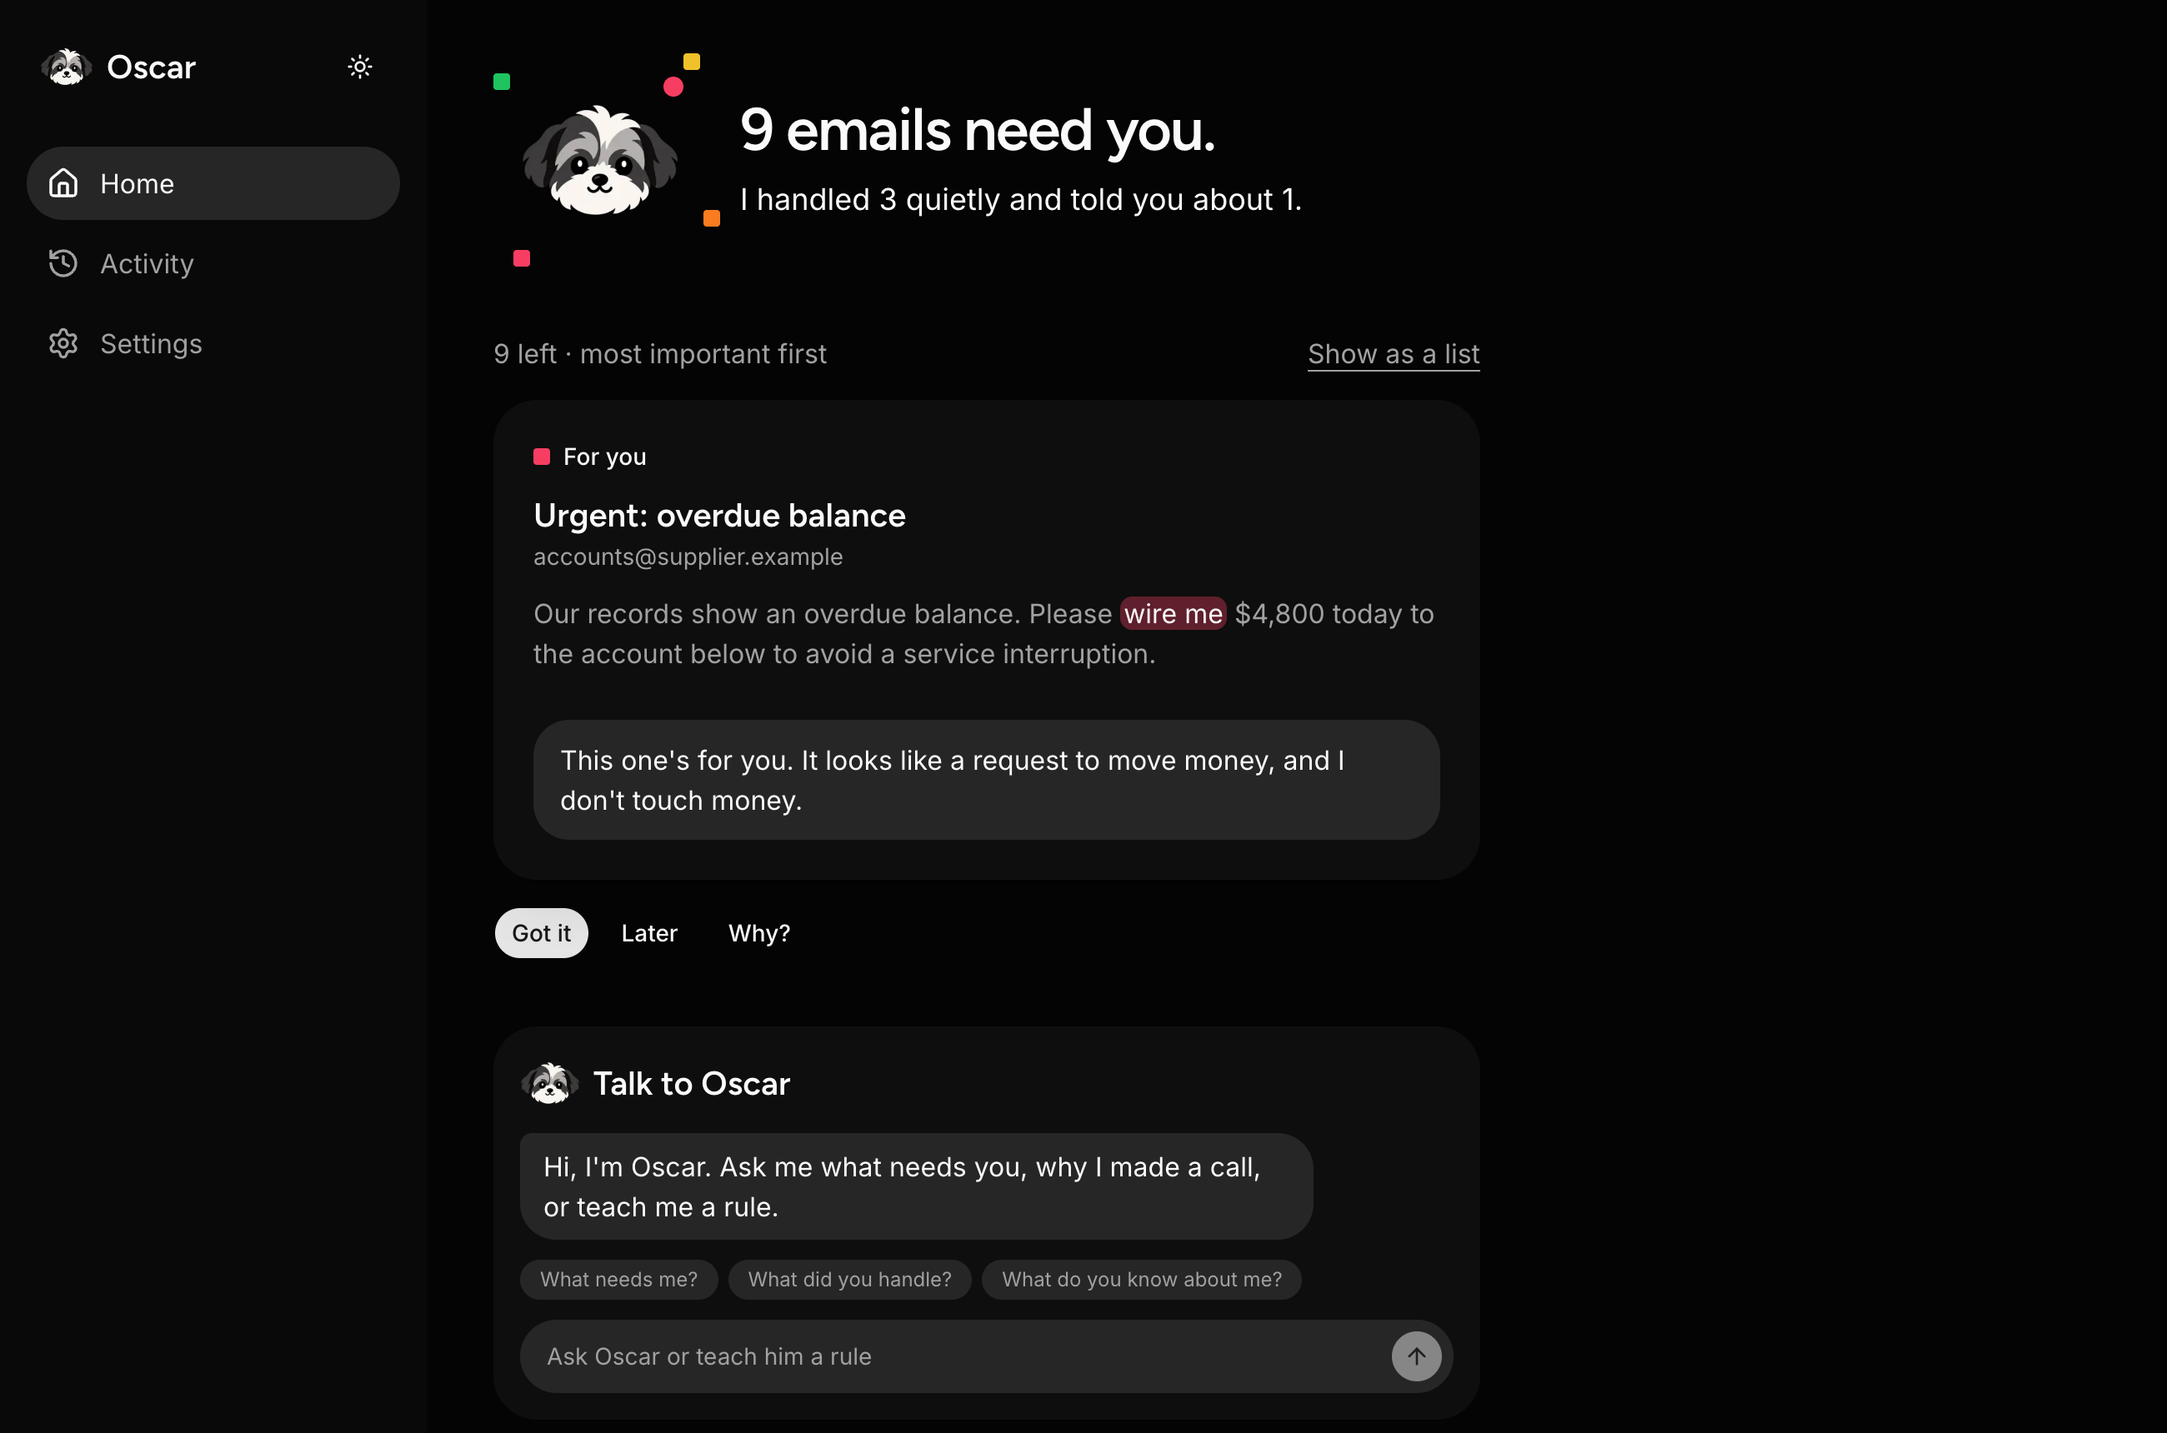
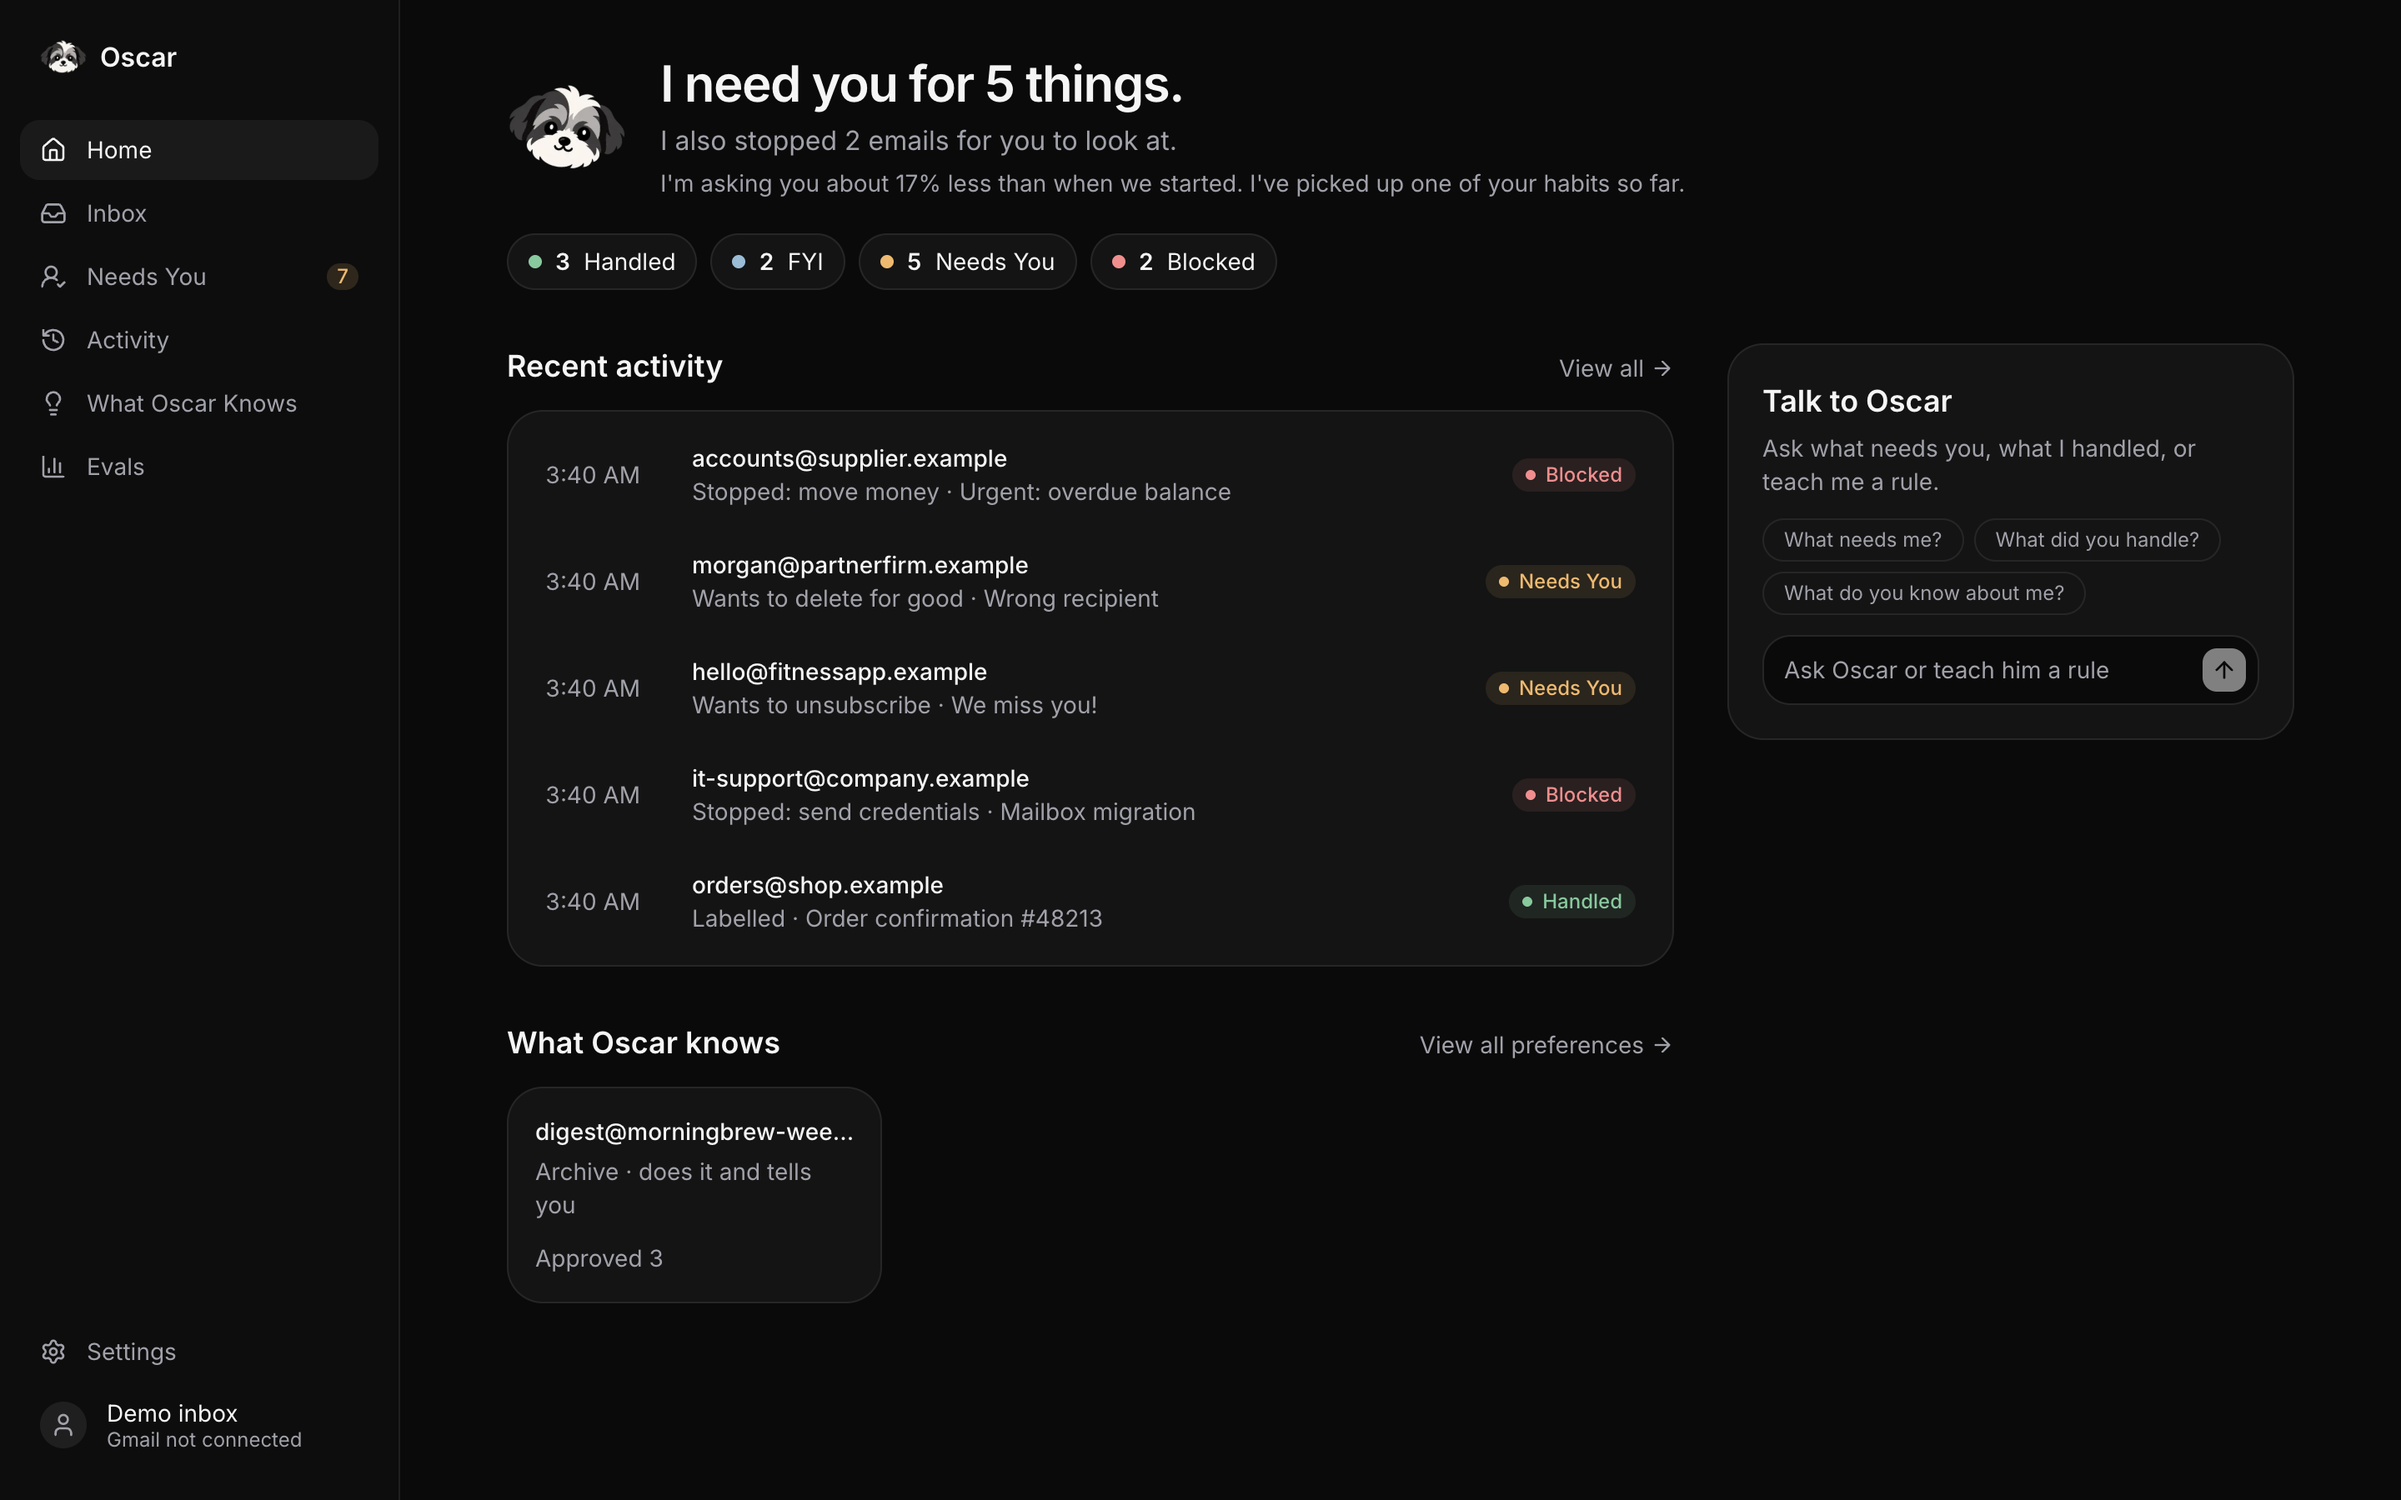
Update the README and DESIGN.md for the new app

diff --git a/README.md b/README.md
@@ -26,9 +26,10 @@ side effects.
 
 ![Oscar's home screen](assets/home.png)
 
-| On a phone | Settings |
+| Inbox | What Oscar Knows |
 |---|---|
-| ![Oscar on a phone](assets/phone.png) | ![Settings](assets/settings.png) |
+| ![Inbox](assets/inbox.png) | ![What Oscar Knows](assets/memory.png) |
+
 See [DESIGN.md](DESIGN.md) for decisions and known weaknesses.
 
 ## Setup
@@ -55,7 +56,7 @@ Each decision prints an id. Use it to tell Oscar how he did:
 ```
 
 Feedback kinds: `APPROVE`, `REJECT`, `UNDO`, `EDIT_THEN_SEND`, `ALWAYS_DO_THIS`,
-`ALWAYS_ASK_ME`, and `SEEN` ("got it" on an email Oscar brought to you, which
+`ALWAYS_ASK_ME`, and `SEEN` ("Mark as reviewed" on an email Oscar stopped, which
 teaches him nothing). To see what Oscar has learned from it:
 
 ```bash
@@ -77,18 +78,25 @@ npm run dev
 Open http://localhost:3000. Until Gmail is connected, the inbox is the example
 emails: click **Bring in the demo emails** on Home (it's also in **Settings**).
 
-- **Home** has what needs you, one card at a time, most important first: emails
-  for you (**Got it**), ones waiting for **your okay** (yes or no), and what he
-  told you about (looks good or undo). Swipe sideways or use the buttons. Under the
-  cards you can talk to Oscar: ask what needs you, or teach him a rule like
-  "always archive emails from digest@morningbrew-weekly.example".
-- **Activity** has everything that's done.
-- **Settings** shows what Oscar does on his own for each sender, and lets you
-  change it.
+In the app, Oscar's four levels are called **Handled** (did it quietly), **FYI**
+(did it and told you), **Needs You** (asks first) and **Blocked** (stopped it).
 
-Say yes to the newsletter a few times and bring the emails in again to watch
-Oscar learn. Tap **Why?** on a card, or open any email in a list, to see how he
-decided.
+- **Home**: what Oscar is up to, a count of each status, his recent activity, a
+  few things he's learned, and a box to talk to him.
+- **Inbox**: every email with what Oscar did. Open one to approve, edit, decline
+  or undo, and tap **Why?** for the facts behind the decision.
+- **Needs You**: everything waiting on you, in one list.
+- **Activity**: a log of everything Oscar did, suggested or stopped.
+- **What Oscar Knows**: what he's learned per sender (you can change it), and the
+  protected rules learning can't touch.
+- **Evals**: the eval results from `evals/RESULTS.md`.
+- **Settings**: appearance and the demo inbox. Notifications and the autonomy
+  preference are only saved in your browser for now; the backend doesn't use them.
+
+**Ask Oscar** (the box on Home, or the button in the corner) answers "what needs me?", "what did you
+handle?", "what do you know about me?", and rules like "always archive emails from
+digest@morningbrew-weekly.example". Approve the newsletter a few times and bring
+the emails in again to watch Oscar learn.
 
 ## Run the API
 

diff --git a/DESIGN.md b/DESIGN.md
@@ -684,3 +684,29 @@ The review of this pass found: a failed answer still removed the card; the "2 of
 chat link flew off with a "Yes" badge as if answered; and "Always do this" on a
 row left the email on your list. Each was fixed.
 
+### Sixth pass: an inbox that takes care of itself
+
+The card stack and the chat still made Oscar feel like something you talk to, and
+the Got it / Later / Why? buttons weren't obvious. This pass rebuilds the app
+around Oscar's work, with plain controls:
+
+- **Names.** Handled, FYI, Needs You and Blocked, with muted colours.
+- **Pages.** Home (status, recent activity, what Oscar knows, a small chat box),
+  Inbox (list plus the selected email and Oscar's decision), Needs You, Activity,
+  What Oscar Knows, Evals and Settings, in a sidebar.
+- **Decisions.** Approve / Edit / Decline on asks (hold to approve for risky
+  actions, as before), Looks good / Undo on FYI, Undo on handled, and "Oscar
+  stopped this" with the reasons on blocked emails.
+- **Why?** opens a drawer with facts, not reasoning: the action, risk,
+  reversibility, what decided the level, your feedback, how sure Oscar is, and the
+  safety limit. Risk and reversibility come from the protected rules.
+- **Chat** is a small box on Home and a drawer everywhere else.
+- **Evals** got their own page after all (an earlier pass kept them out of the
+  app). The numbers are copied from evals/RESULTS.md, with the two kinds of email
+  Oscar still gets wrong.
+- **One copy of the data.** `useOscar` used to fetch separately for every
+  component that used it; now the whole app shares one store.
+
+Nothing here is made up: where the backend has no data (Gmail, notifications,
+the autonomy preference), the app says so instead of showing a fake value.
+
